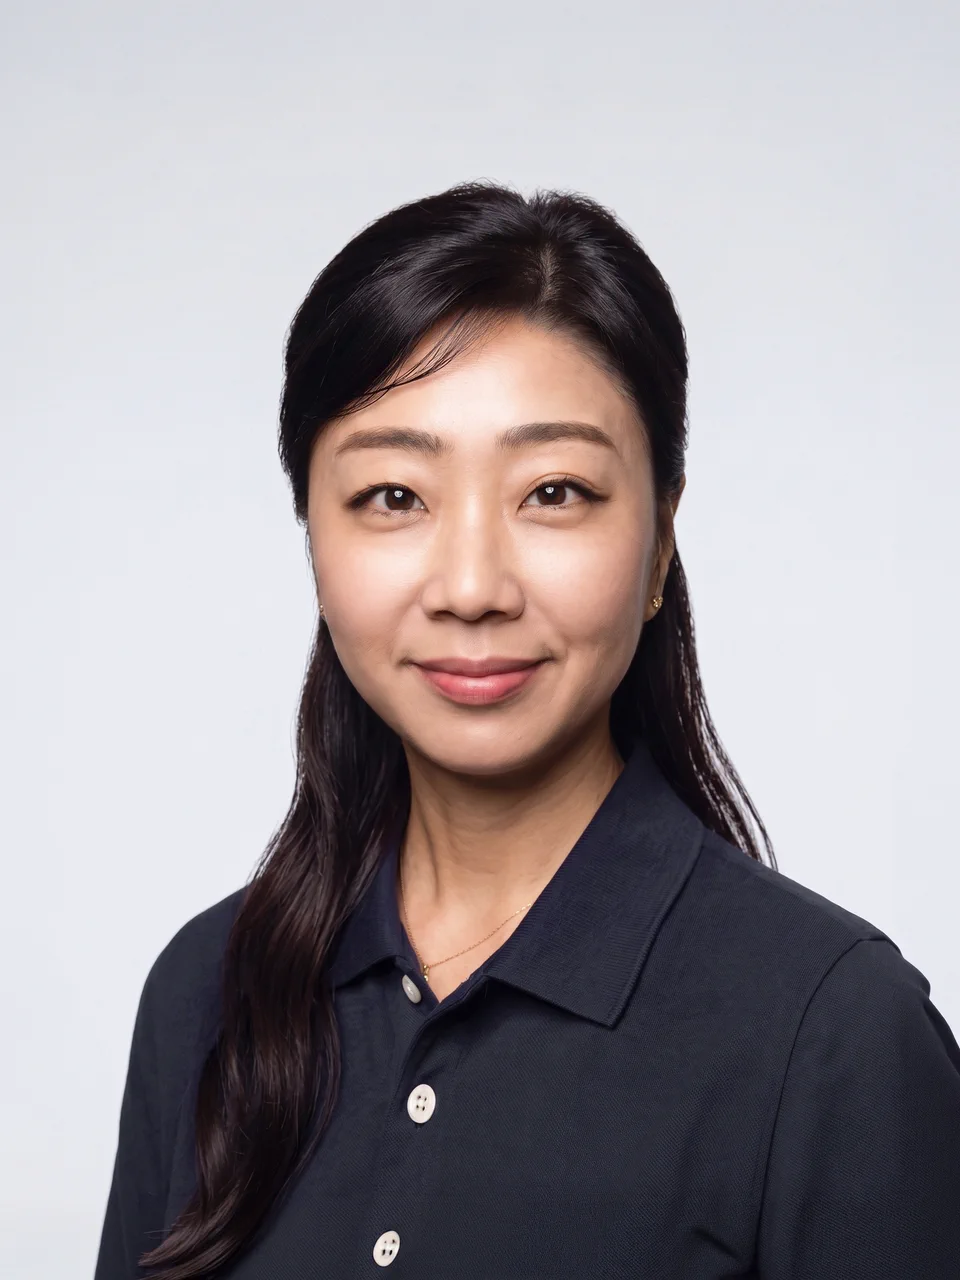
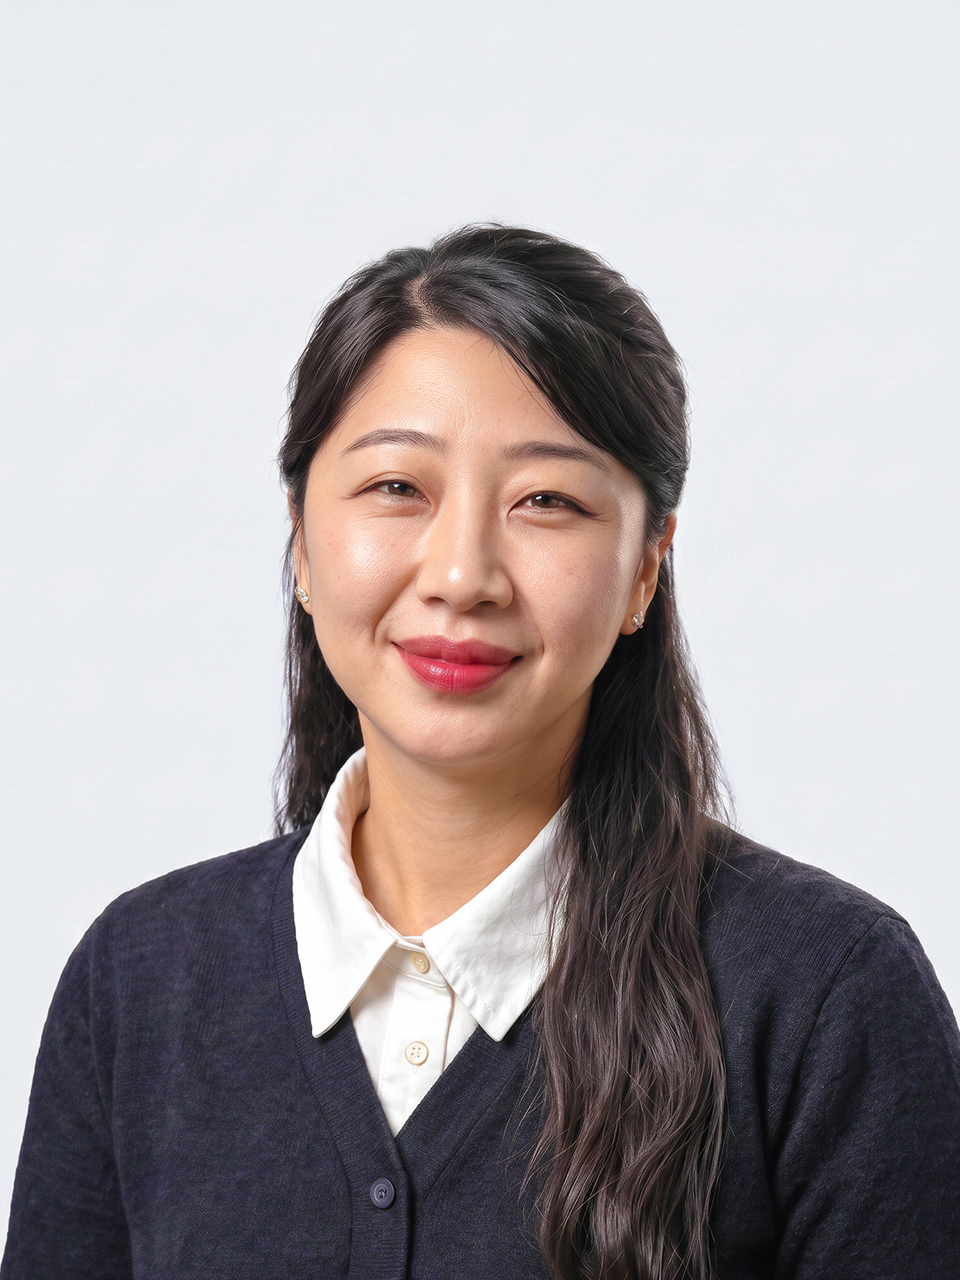
섬기는사람들: 황규현 원로장로 추가 및 사진 업데이트

diff --git a/src/pages/TeamPage.jsx b/src/pages/TeamPage.jsx
@@ -18,10 +18,11 @@ import seniorElder05 from '../assets/team/shintanjin-baptist-church-member-senio
 import seniorElder06 from '../assets/team/shintanjin-baptist-church-member-senior-elder-06.webp';
 import seniorElder07 from '../assets/team/shintanjin-baptist-church-member-senior-elder-07.webp';
 import seniorElder08 from '../assets/team/shintanjin-baptist-church-member-senior-elder-08.webp';
+import seniorElder09 from '../assets/team/shintanjin-baptist-church-member-senior-elder-09.webp';
 
 // 그룹별 섬기는 사람들. lead: 담임목사·사모는 한 줄 3칸으로 조금 크게
 // 원로장로 사진 번호는 가나다순: 01 고석천 02 김중호 03 김태식 04 박찬옥 05 서용태 06 안억균 07 오철세 08 임종천 09 황규현
-// 03·09는 사진이 오면 senior-elder-03/09.webp를 import해서 아래 표시해 둔 자리에 추가
+// 03(김태식)은 사진이 오면 senior-elder-03.webp를 import해서 아래 표시해 둔 자리에 추가
 const groups = [
     {
         title: '담임목사 및 사모',
@@ -58,7 +59,7 @@ const groups = [
             { name: '김중호', role: '원로장로', image: seniorElder02 },
             { name: '박찬옥', role: '원로장로', image: seniorElder04 },
             { name: '임종천', role: '원로장로', image: seniorElder08 },
-            // 황규현 (사진 추가 예정, senior-elder-09)
+            { name: '황규현', role: '원로장로', image: seniorElder09 },
             { name: '서용태', role: '원로장로', image: seniorElder05 },
             { name: '안억균', role: '원로장로', image: seniorElder06 },
             { name: '고석천', role: '원로장로', image: seniorElder01 },
